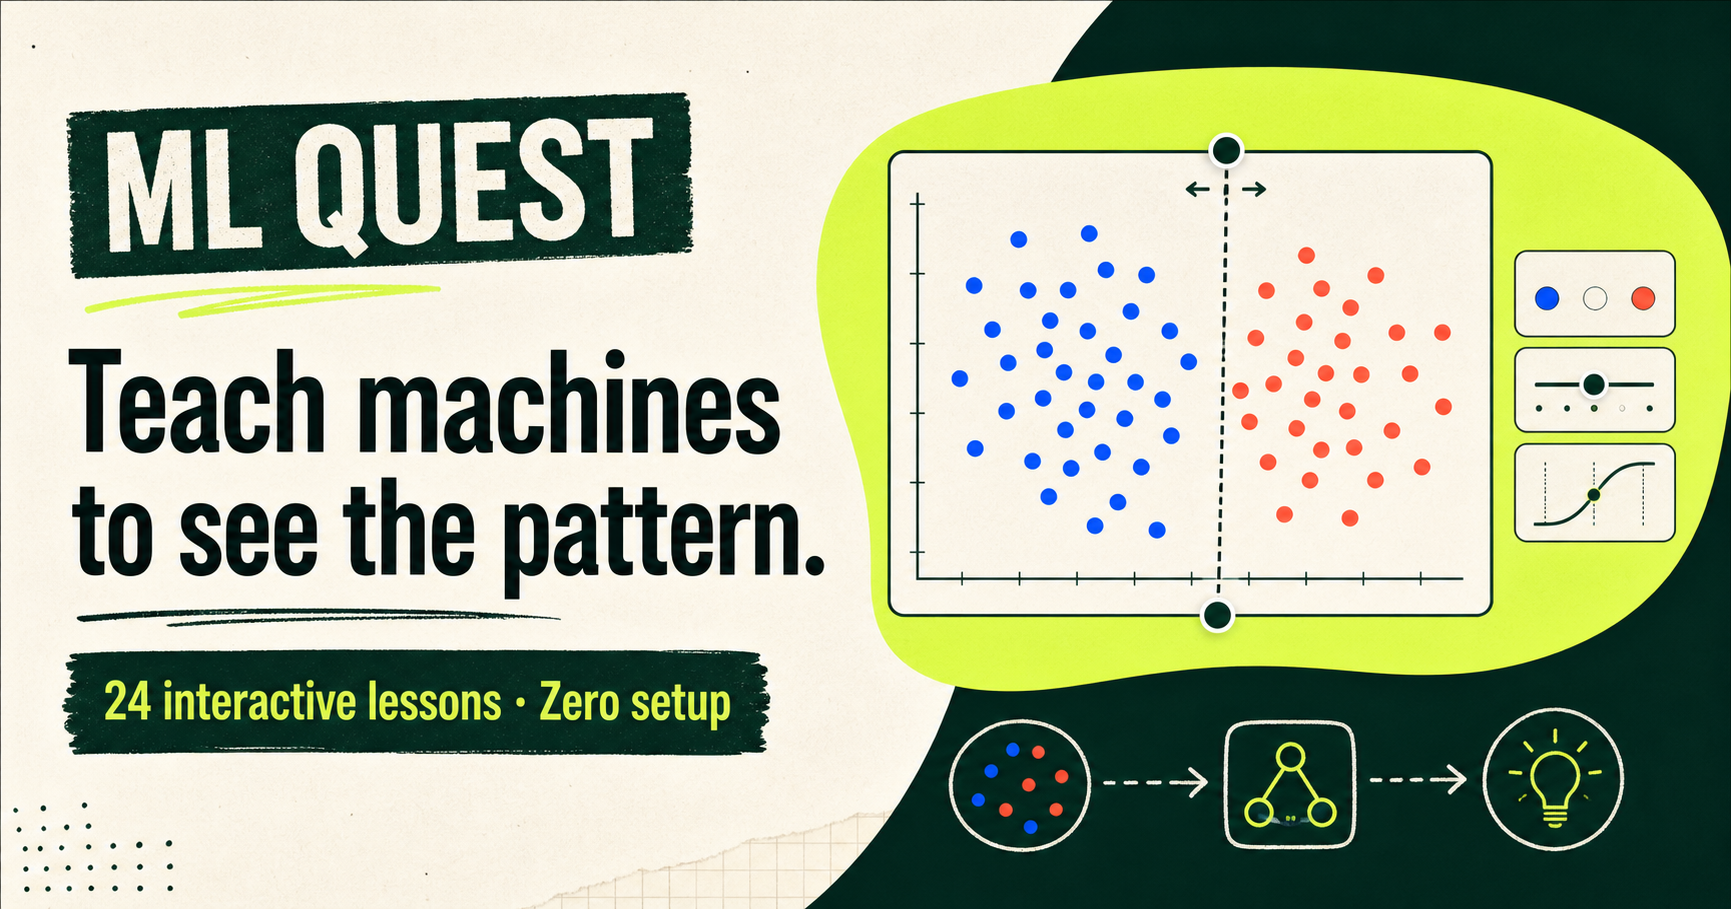
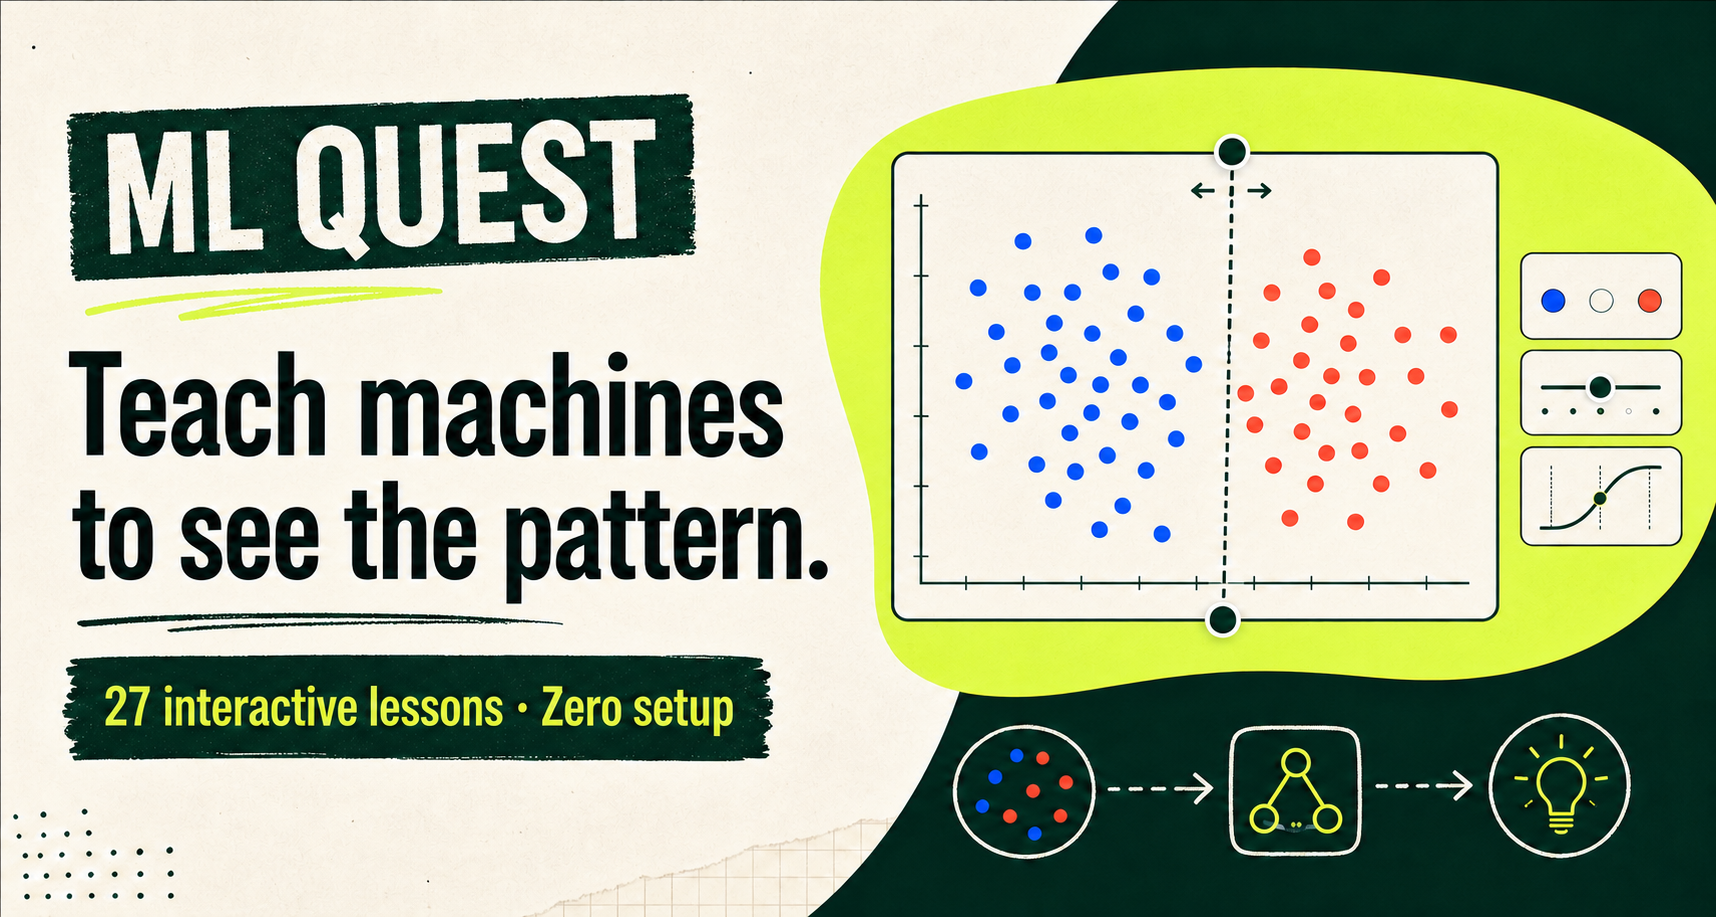
Polish supervised labs and release QA

diff --git a/src/styles.css b/src/styles.css
@@ -72,7 +72,7 @@ button, a { -webkit-tap-highlight-color: transparent; }
 .decision-line { position: absolute; top: 0; bottom: 22px; width: 3px; background: var(--ink); transition: left .12s ease; }.decision-line::before { content: ""; position: absolute; top: 0; bottom: 0; right: 0; width: 45vw; background: rgba(239,91,69,.07); }.decision-line span { position: absolute; top: 9px; left: 7px; padding: 3px 5px; color: #fff; background: var(--ink); font: 700 9px ui-monospace, monospace; }
 .axis-label { position: absolute; color: #748079; font: 700 8px ui-monospace, monospace; text-transform: uppercase; }.axis-x { right: 8px; bottom: 6px; }
 .lab-readout { min-height: 39px; padding: 10px 2px 0; display: flex; align-items: center; justify-content: space-between; gap: 16px; color: #6e7973; text-transform: uppercase; font: 700 8px ui-monospace, monospace; }.lab-readout strong { margin-left: 4px; color: var(--ink); font-size: 11px; }
-.lab-control { padding-top: 14px; border-top: 1px solid var(--line); }.lab-control > div, .lab-control small { display: flex; align-items: center; justify-content: space-between; }.lab-control > div { margin-bottom: 8px; color: #68736d; text-transform: uppercase; font: 750 9px ui-monospace, monospace; letter-spacing: .06em; }.lab-control strong { color: var(--green); font-size: 13px; }.lab-control input { width: 100%; accent-color: var(--green); cursor: ew-resize; }.lab-control small { margin-top: 4px; color: #8b938f; font: 650 8px ui-monospace, monospace; }
+.lab-control { padding-top: 14px; border-top: 1px solid var(--line); }.lab-control > div, .lab-control small { display: flex; align-items: center; justify-content: space-between; }.lab-control > div { margin-bottom: 8px; color: #68736d; text-transform: uppercase; font: 750 9px ui-monospace, monospace; letter-spacing: .06em; }.lab-control strong { color: var(--green); font-size: 13px; }.lab-control input { width: 100%; accent-color: var(--green); cursor: ew-resize; }.lab-control small { margin-top: 2px; color: #8b938f; font: 650 8px ui-monospace, monospace; }.lab-control small button { min-height: 24px; padding: 2px 0; border: 0; background: transparent; color: inherit; font: inherit; cursor: pointer; }.lab-control small button:hover, .lab-control small button:focus-visible { color: var(--green); text-decoration: underline; text-underline-offset: 2px; }
 .lab-step-button { width: 100%; min-height: 42px; margin-top: 12px; padding: 0 13px; display: flex; align-items: center; justify-content: space-between; color: #fff; background: var(--green); border: 0; cursor: pointer; font-size: 11px; font-weight: 800; }
 .reg-point { z-index: 2; width: 12px; height: 12px; background: var(--blue); border: 2px solid #fff; box-shadow: 0 0 0 1px var(--blue); }.reg-line { position: absolute; z-index: 1; left: -10%; top: 58%; width: 120%; height: 3px; transform-origin: center; background: var(--coral); transition: transform .18s ease; }
 .bar-lab { height: 100%; display: flex; flex-direction: column; }.bars { flex: 1; padding: 24px 12px 0; display: flex; align-items: flex-end; gap: 8px; background: #edf0e8; border: 1px solid #b8c0b8; border-bottom: 0; }.bar-item { flex: 1; height: 100%; display: flex; flex-direction: column; justify-content: flex-end; align-items: stretch; gap: 7px; }.bar-item > span { min-height: 10px; position: relative; background: var(--blue); transition: height .25s ease; }.bar-item:nth-child(even) > span { background: var(--coral); }.bar-item:last-child > span { background: var(--green); }.bar-item b { position: absolute; top: -17px; width: 100%; text-align: center; font: 700 9px ui-monospace, monospace; }.bar-item small { min-height: 26px; text-align: center; color: #748079; font: 650 7px ui-monospace, monospace; text-transform: uppercase; }

diff --git a/src/CodeLab.tsx b/src/CodeLab.tsx
@@ -1,4 +1,4 @@
-import { useCallback, useEffect, useState } from 'react'
+import { useCallback, useEffect, useRef, useState } from 'react'
 import type { CodeChallenge } from './codeChallenges'
 import { runChallenge, type RunResult } from './engine/pyodide'
 
@@ -14,6 +14,8 @@ function loadDraft(slug: string, starter: string, functionName: string) {
 }
 
 export function CodeLab({ slug, challenge, passed, onPass }: { slug: string; challenge: CodeChallenge; passed: boolean; onPass: () => void }) {
+  const passedRef = useRef(passed)
+  passedRef.current = passed
   const [code, setCode] = useState(() => loadDraft(slug, challenge.starter, challenge.functionName))
   const [runState, setRunState] = useState<RunState>(passed ? 'passed' : 'idle')
   const [result, setResult] = useState<RunResult | null>(null)
@@ -22,11 +24,13 @@ export function CodeLab({ slug, challenge, passed, onPass }: { slug: string; cha
 
   useEffect(() => {
     setCode(loadDraft(slug, challenge.starter, challenge.functionName))
-    setRunState(passed ? 'passed' : 'idle')
+    setRunState(passedRef.current ? 'passed' : 'idle')
     setResult(null)
     setAttempts(0)
     setRevealedHints(0)
-  }, [slug, challenge.starter, challenge.functionName, passed])
+    // A successful run flips `passed` in the parent. Do not treat that as a
+    // challenge change or the result panel and the learner's fresh code vanish.
+  }, [slug, challenge.starter, challenge.functionName])
 
   useEffect(() => {
     const timer = setTimeout(() => {

diff --git a/index.html b/index.html
@@ -10,10 +10,14 @@
     <meta property="og:type" content="website" />
     <meta property="og:url" content="https://bankoti.github.io/ml-quest/" />
     <meta property="og:image" content="https://bankoti.github.io/ml-quest/og.png" />
+    <meta property="og:image:width" content="1716" />
+    <meta property="og:image:height" content="917" />
+    <meta property="og:image:alt" content="ML Quest — Teach machines to see the pattern. 27 interactive lessons, zero setup." />
     <meta name="twitter:card" content="summary_large_image" />
     <meta name="twitter:title" content="ML Quest — Learn machine learning by doing" />
     <meta name="twitter:description" content="27 visual lessons. 27 Python quests. 8 animated supervised algorithms. Zero setup." />
     <meta name="twitter:image" content="https://bankoti.github.io/ml-quest/og.png" />
+    <meta name="twitter:image:alt" content="ML Quest — Teach machines to see the pattern. 27 interactive lessons, zero setup." />
     <title>ML Quest — Zero to Hero</title>
   </head>
   <body>

diff --git a/src/Lab.tsx b/src/Lab.tsx
@@ -12,7 +12,7 @@ function Slider({ value, onChange, left, right, label }: { value: number; onChan
   return <div className="lab-control">
     <div><span>{label}</span><strong>{value}</strong></div>
     <input aria-label={label} type="range" min="0" max="100" value={value} onChange={event => onChange(Number(event.target.value))} />
-    <small><span>{left}</span><span>{right}</span></small>
+    <small><button type="button" aria-label={`Set ${label} to minimum`} onClick={() => onChange(0)}>{left}</button><button type="button" aria-label={`Set ${label} to maximum`} onClick={() => onChange(100)}>{right}</button></small>
   </div>
 }
 
